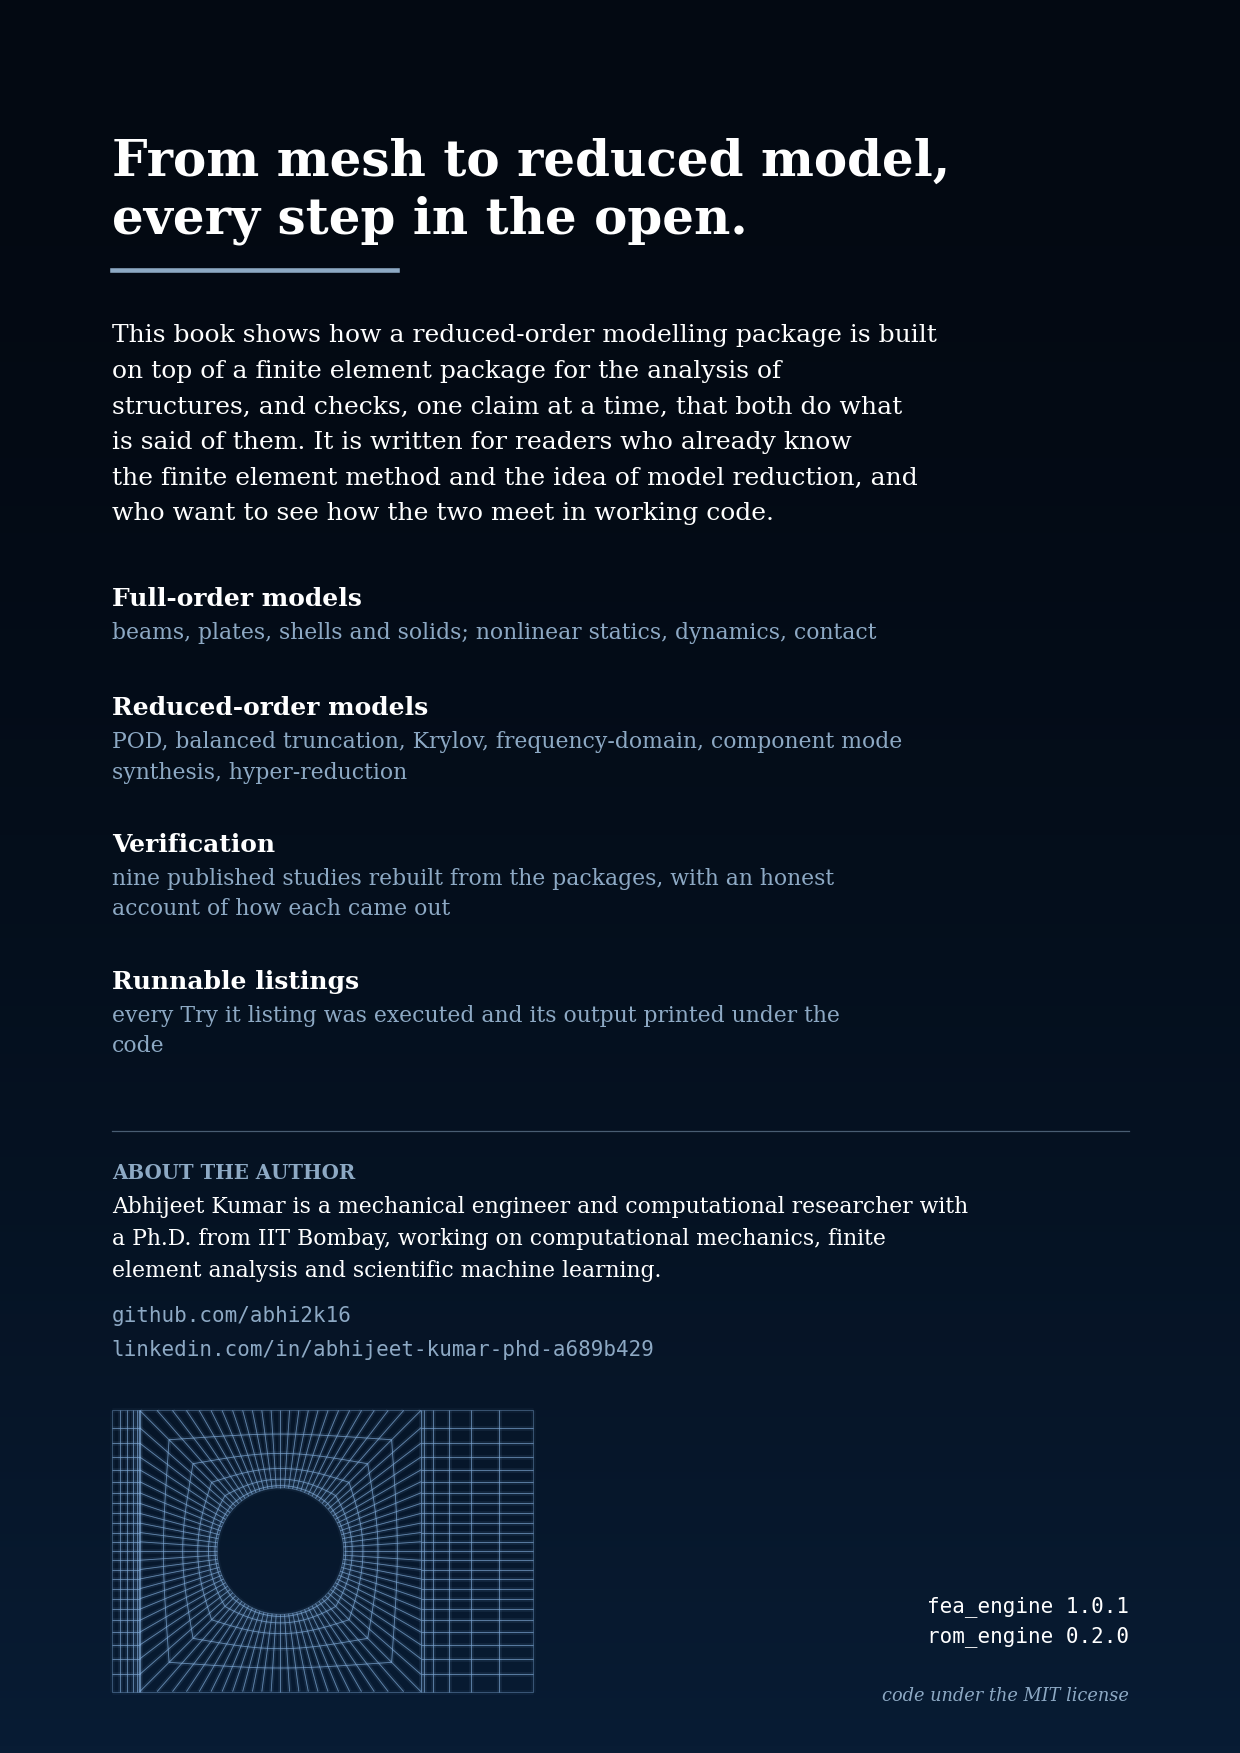
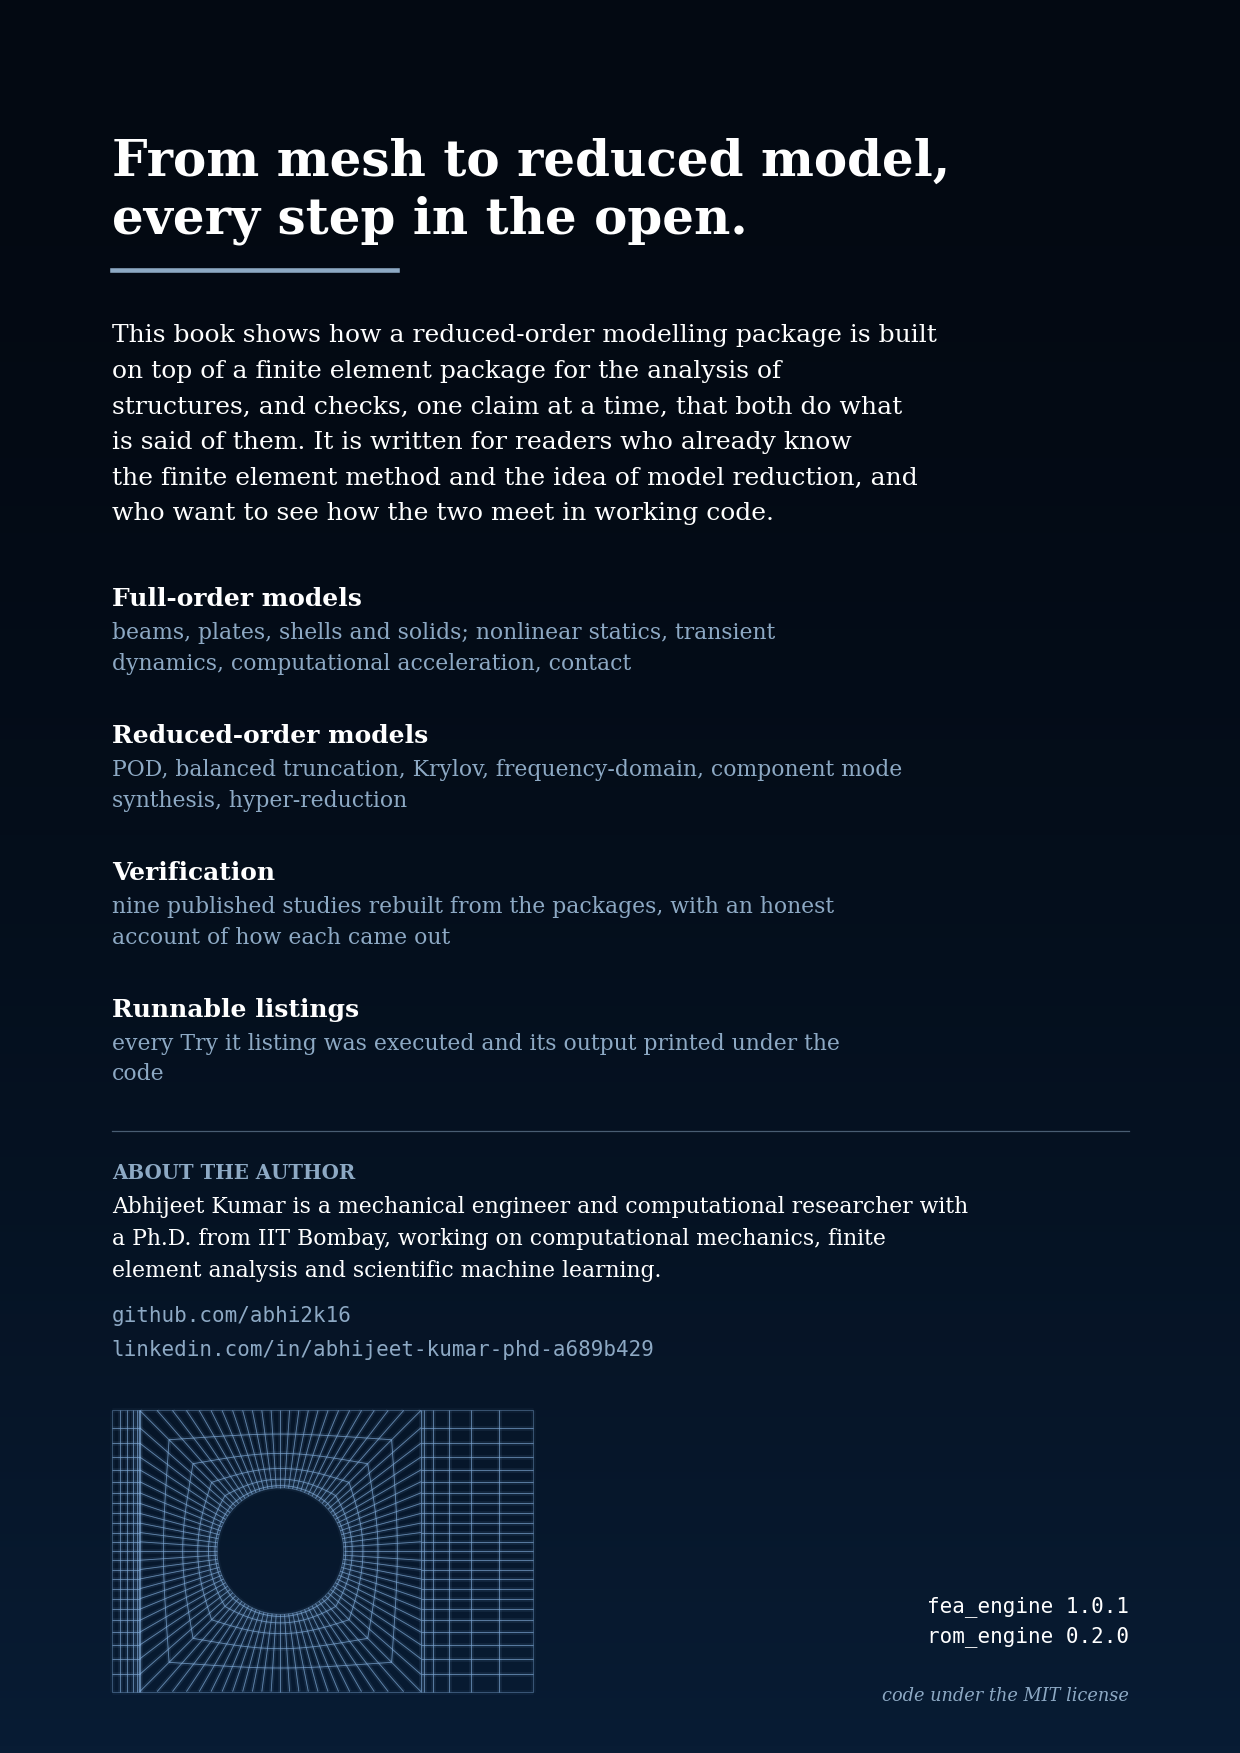
Update full-order models description to include transient dynamics and computational acceleration

diff --git a/packages_book/cover/back.py b/packages_book/cover/back.py
@@ -35,7 +35,7 @@ blurb = ("This book shows how a reduced-order modelling package is built on top 
          "the idea of model reduction, and who want to see how the two meet in working code.")
 ax.text(L, 0.815, "\n".join(textwrap.wrap(blurb, 62)), color=INK, fontsize=12, family=serif, linespacing=1.7, va="top")
 
-items = [("Full-order models", "beams, plates, shells and solids; nonlinear statics, dynamics, contact"),
+items = [("Full-order models", "beams, plates, shells and solids; nonlinear statics, transient dynamics, computational acceleration, contact"),
          ("Reduced-order models", "POD, balanced truncation, Krylov, frequency-domain, component mode synthesis, hyper-reduction"),
          ("Verification", "nine published studies rebuilt from the packages, with an honest account of how each came out"),
          ("Runnable listings", "every Try it listing was executed and its output printed under the code")]
